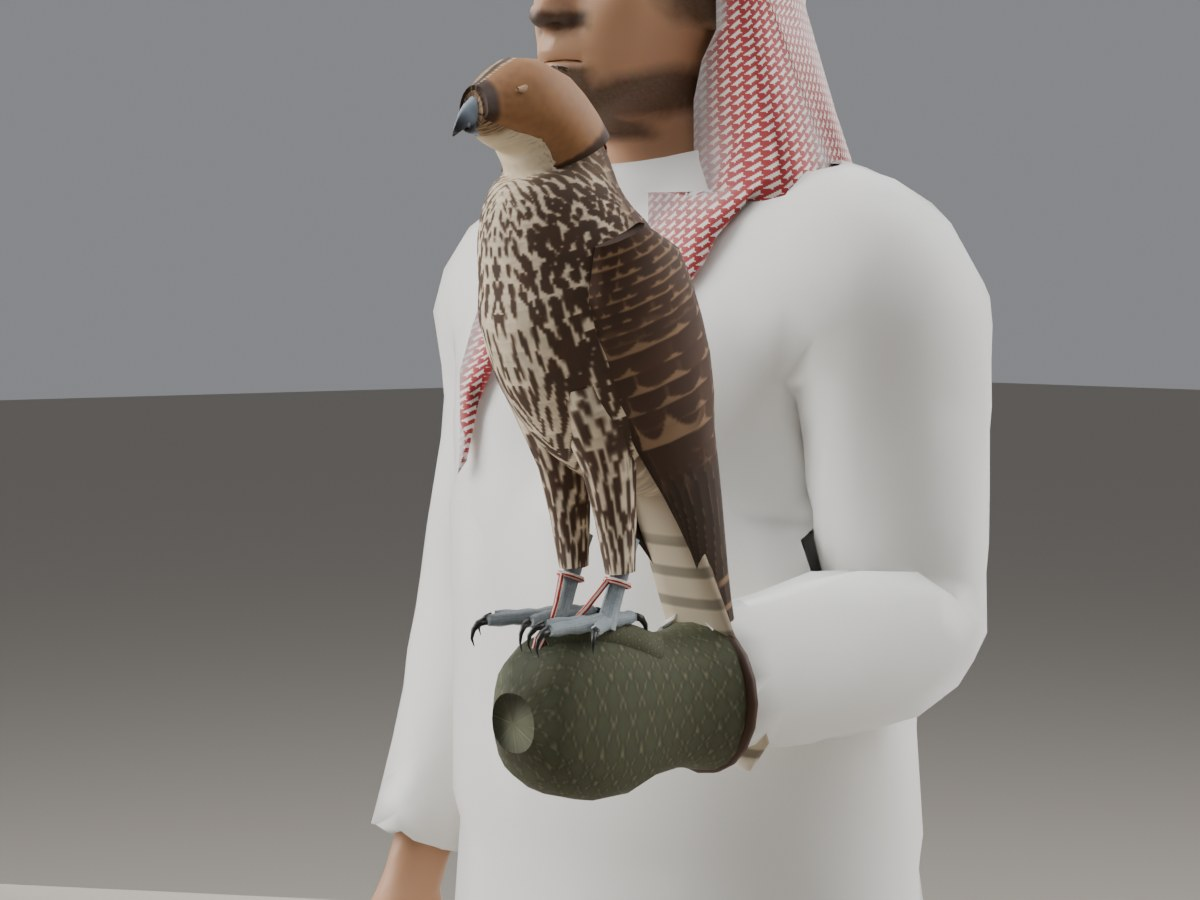
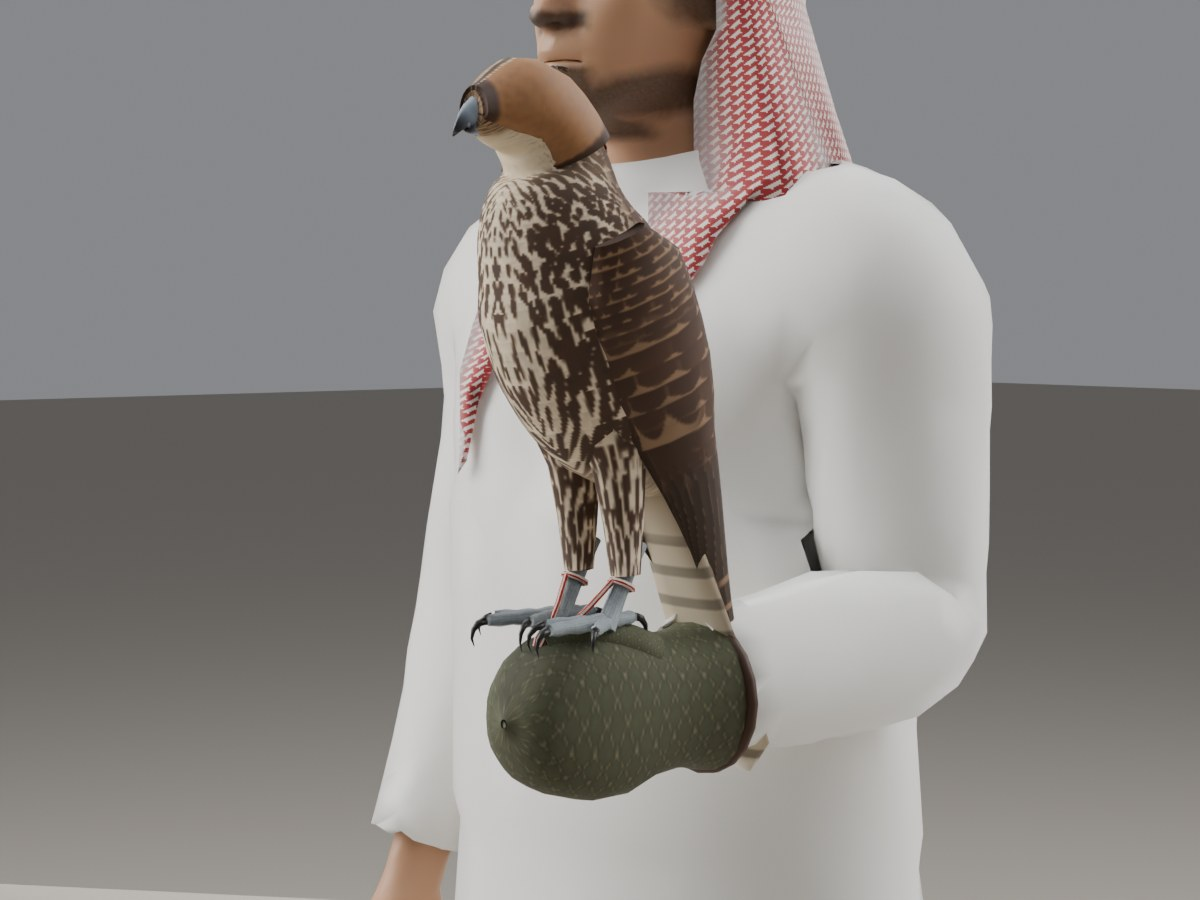
Scale and fist pictures, round 2; README triangle counts checked against the files
Claude-Session: https://claude.ai/code/session_01MLonhqocXpQK4avaG2Yu99

Changed region(s): [[0.4317, 0.4356, 0.555, 0.6844], [0.4008, 0.7467, 0.4625, 0.8711]]

diff --git a/tool/bird3d/README.md b/tool/bird3d/README.md
@@ -24,18 +24,18 @@ end).
 
 | File | What | Triangles (parts) | Draws |
 |---|---|---|---|
-| `assets_src/birds/saker_hooded.glb` | perched, hooded, jessed, the swivel ready for the leash | 5,896 body + 724 hood + 560 jesses = 7,180 | 3 |
-| `saker_fist.glb` | the same bird hooded on the fist, her jesses running into the falconer's grip | 5,896 + 724 + 400 = 7,020 | 3 |
+| `assets_src/birds/saker_hooded.glb` | perched, hooded, jessed, the swivel ready for the leash | 5,352 body + 724 hood + 560 jesses = 6,636 | 3 |
+| `saker_fist.glb` | the same bird hooded on the fist, her jesses running into the falconer's grip | 5,352 + 724 + 400 = 6,476 | 3 |
 | `saker_alert.glb` | perched, unhooded, alert | 5,896 + 560 jesses = 6,456 | 2 |
 | `saker_flight.glb` | cast off: wings spread, feet drawn up under the tail, jesses trailing | 6,232 + 400 = 6,632 | 2 |
 | `saker_*_lod1.glb` | the far model of each pose: no jesses, brow, tooth or eye ring (under a pixel at tens of metres) | 1,334 (hooded, with the hood) / 1,204 / 1,300 | 1–2 |
-| `houbara_alert.glb`, `houbara_flight.glb` | | 5,284 / 6,340 | 1 |
+| `houbara_alert.glb`, `houbara_flight.glb` | | 5,428 / 6,484 | 1 |
 | `houbara_*_lod1.glb` | | 1,084 / 1,468 | 1 |
 | `curlew_alert.glb`, `curlew_flight.glb` | | 5,084 / 5,420 | 1 |
 | `curlew_*_lod1.glb` | | 1,120 / 1,216 | 1 |
 | `wakr.glb` | the perch and the leash | 1,228 + 168 = 1,396 | 2 |
-| `dass.glb` | the cuff | 864 | 1 |
-| `wakr_lod1.glb`, `dass_lod1.glb` | | 436 / 140 | 2 / 1 |
+| `dass.glb` | the cuff | 944 | 1 |
+| `wakr_lod1.glb`, `dass_lod1.glb` | | 436 / 160 | 2 / 1 |
 
 Each bird file has one material, one-sided, and one texture pair: colour plus occlusion/roughness. The pair is 512 px
 for the close model and 256 px for the far one. That is 2.67 MiB uncompressed with mipmaps (0.67 MiB far), counted as
@@ -56,7 +56,7 @@ The budget is ADR 0005's: 200 draws and 400k triangles a frame with shadows, and
 
 - **What a hunt scene shows:** one falcon close (on the fist, the perch or just cast off), at most a few quarry, and
   the falcon far off while it chases.
-  - Close falcon with hood and jesses, the cuff and a perch: 7.2k + 0.9k + 1.4k = about 9.5k triangles, 6 draws
+  - Close falcon with hood and jesses, the cuff and a perch: 6.6k + 0.9k + 1.4k = about 9k triangles, 6 draws
     (12 with the shadow pass).
   - Three quarry far off: 3 × 1.1–1.5k triangles, 3 draws.
   - All together that is about 2–3% of the triangle budget, and 4 texture pairs (about 11 MiB uncompressed, about 3
@@ -126,7 +126,7 @@ Sexes: the male is about a third smaller (the tiercel). Its figures are above; i
 | Dark primaries, each darker at its overlapped edge, with narrow pale tips staggered on the folded wing | wing | the same |
 | Tail brown with pale oval spots in bars, the central pair plainer, a pale tip; paler and barred below | tail | the same |
 | Dark, pale-spotted underwing coverts against paler, barred flight feathers with a thin dusky trailing edge | underwing in flight | a saker field mark *(search; reviewer)* |
-| Dark brown iris (never yellow) in a ring of bare skin; a brow ridge over the eye (the falcon's frown) | eye | the same |
+| Dark brown iris (never yellow) in a ring of bare skin; a brow ridge over the eye (the falcon's frown); both left off under the hood | eye | the same |
 | Bluish-grey cere, eye ring and feet; a short, deep, strongly hooked bluish horn bill with a black hook and the tomial tooth; long curved black talons | bare parts | juvenile, the same |
 
 The sakers of the Kingdom's markets come in shades (أشقر، أحمر، أدهم). This one is a mid brown bird. The other shades
